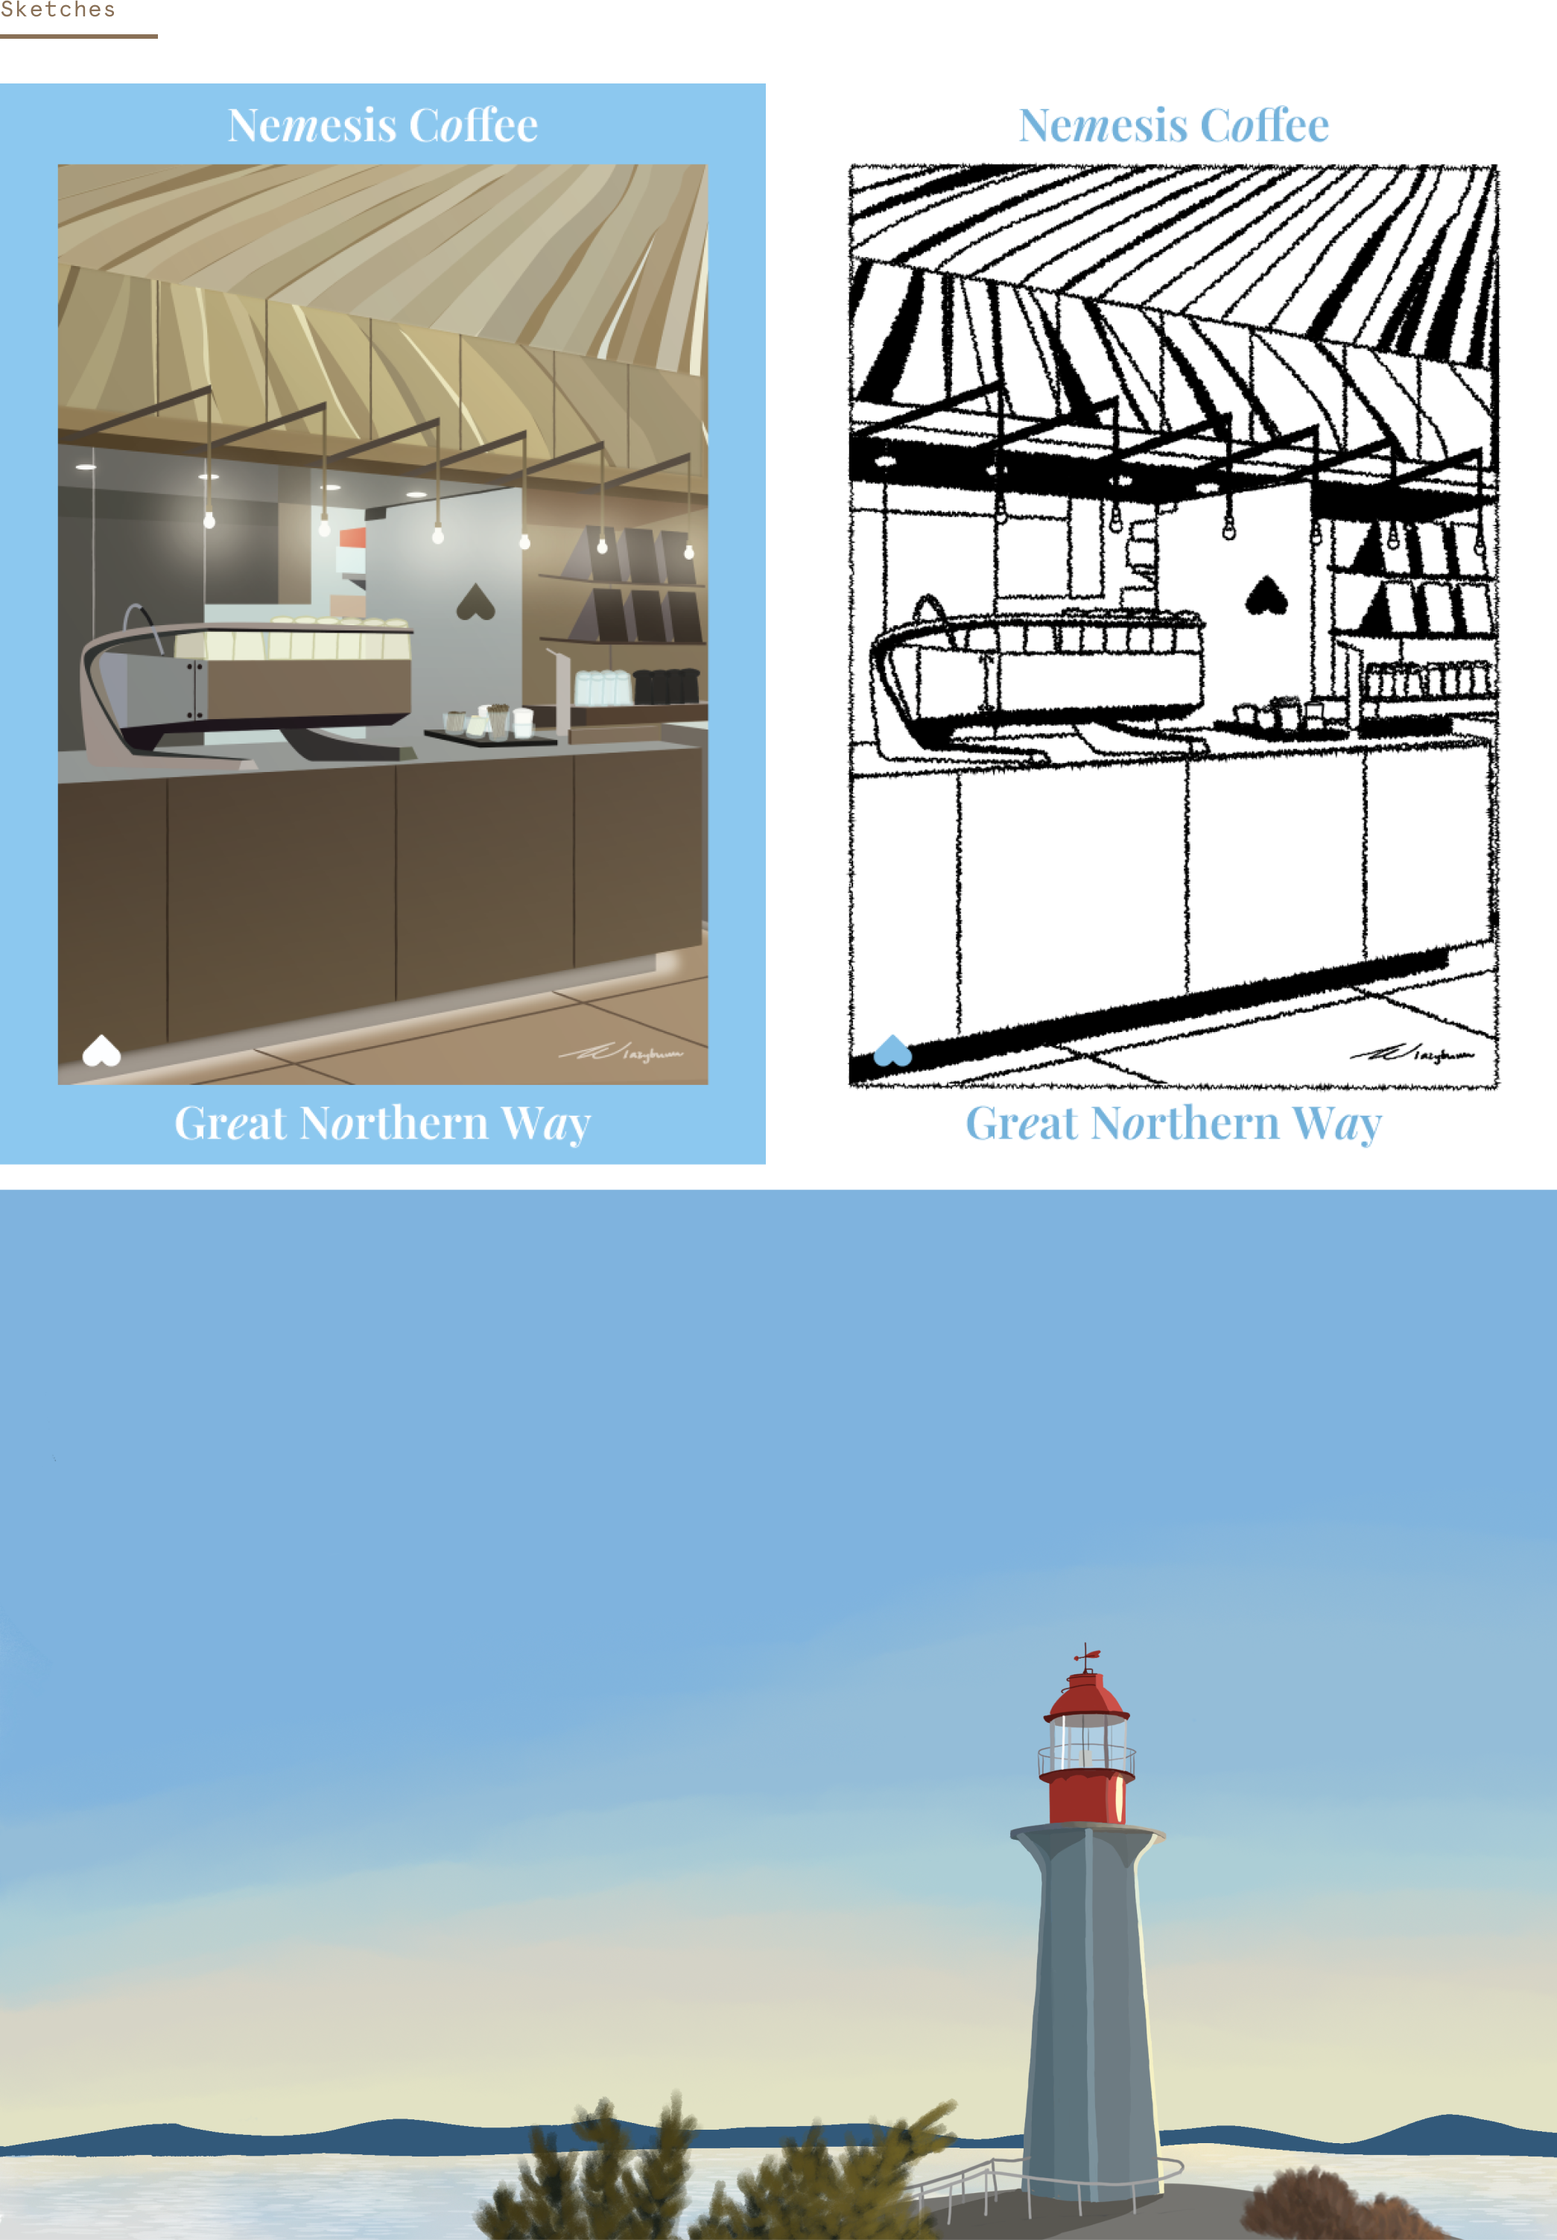
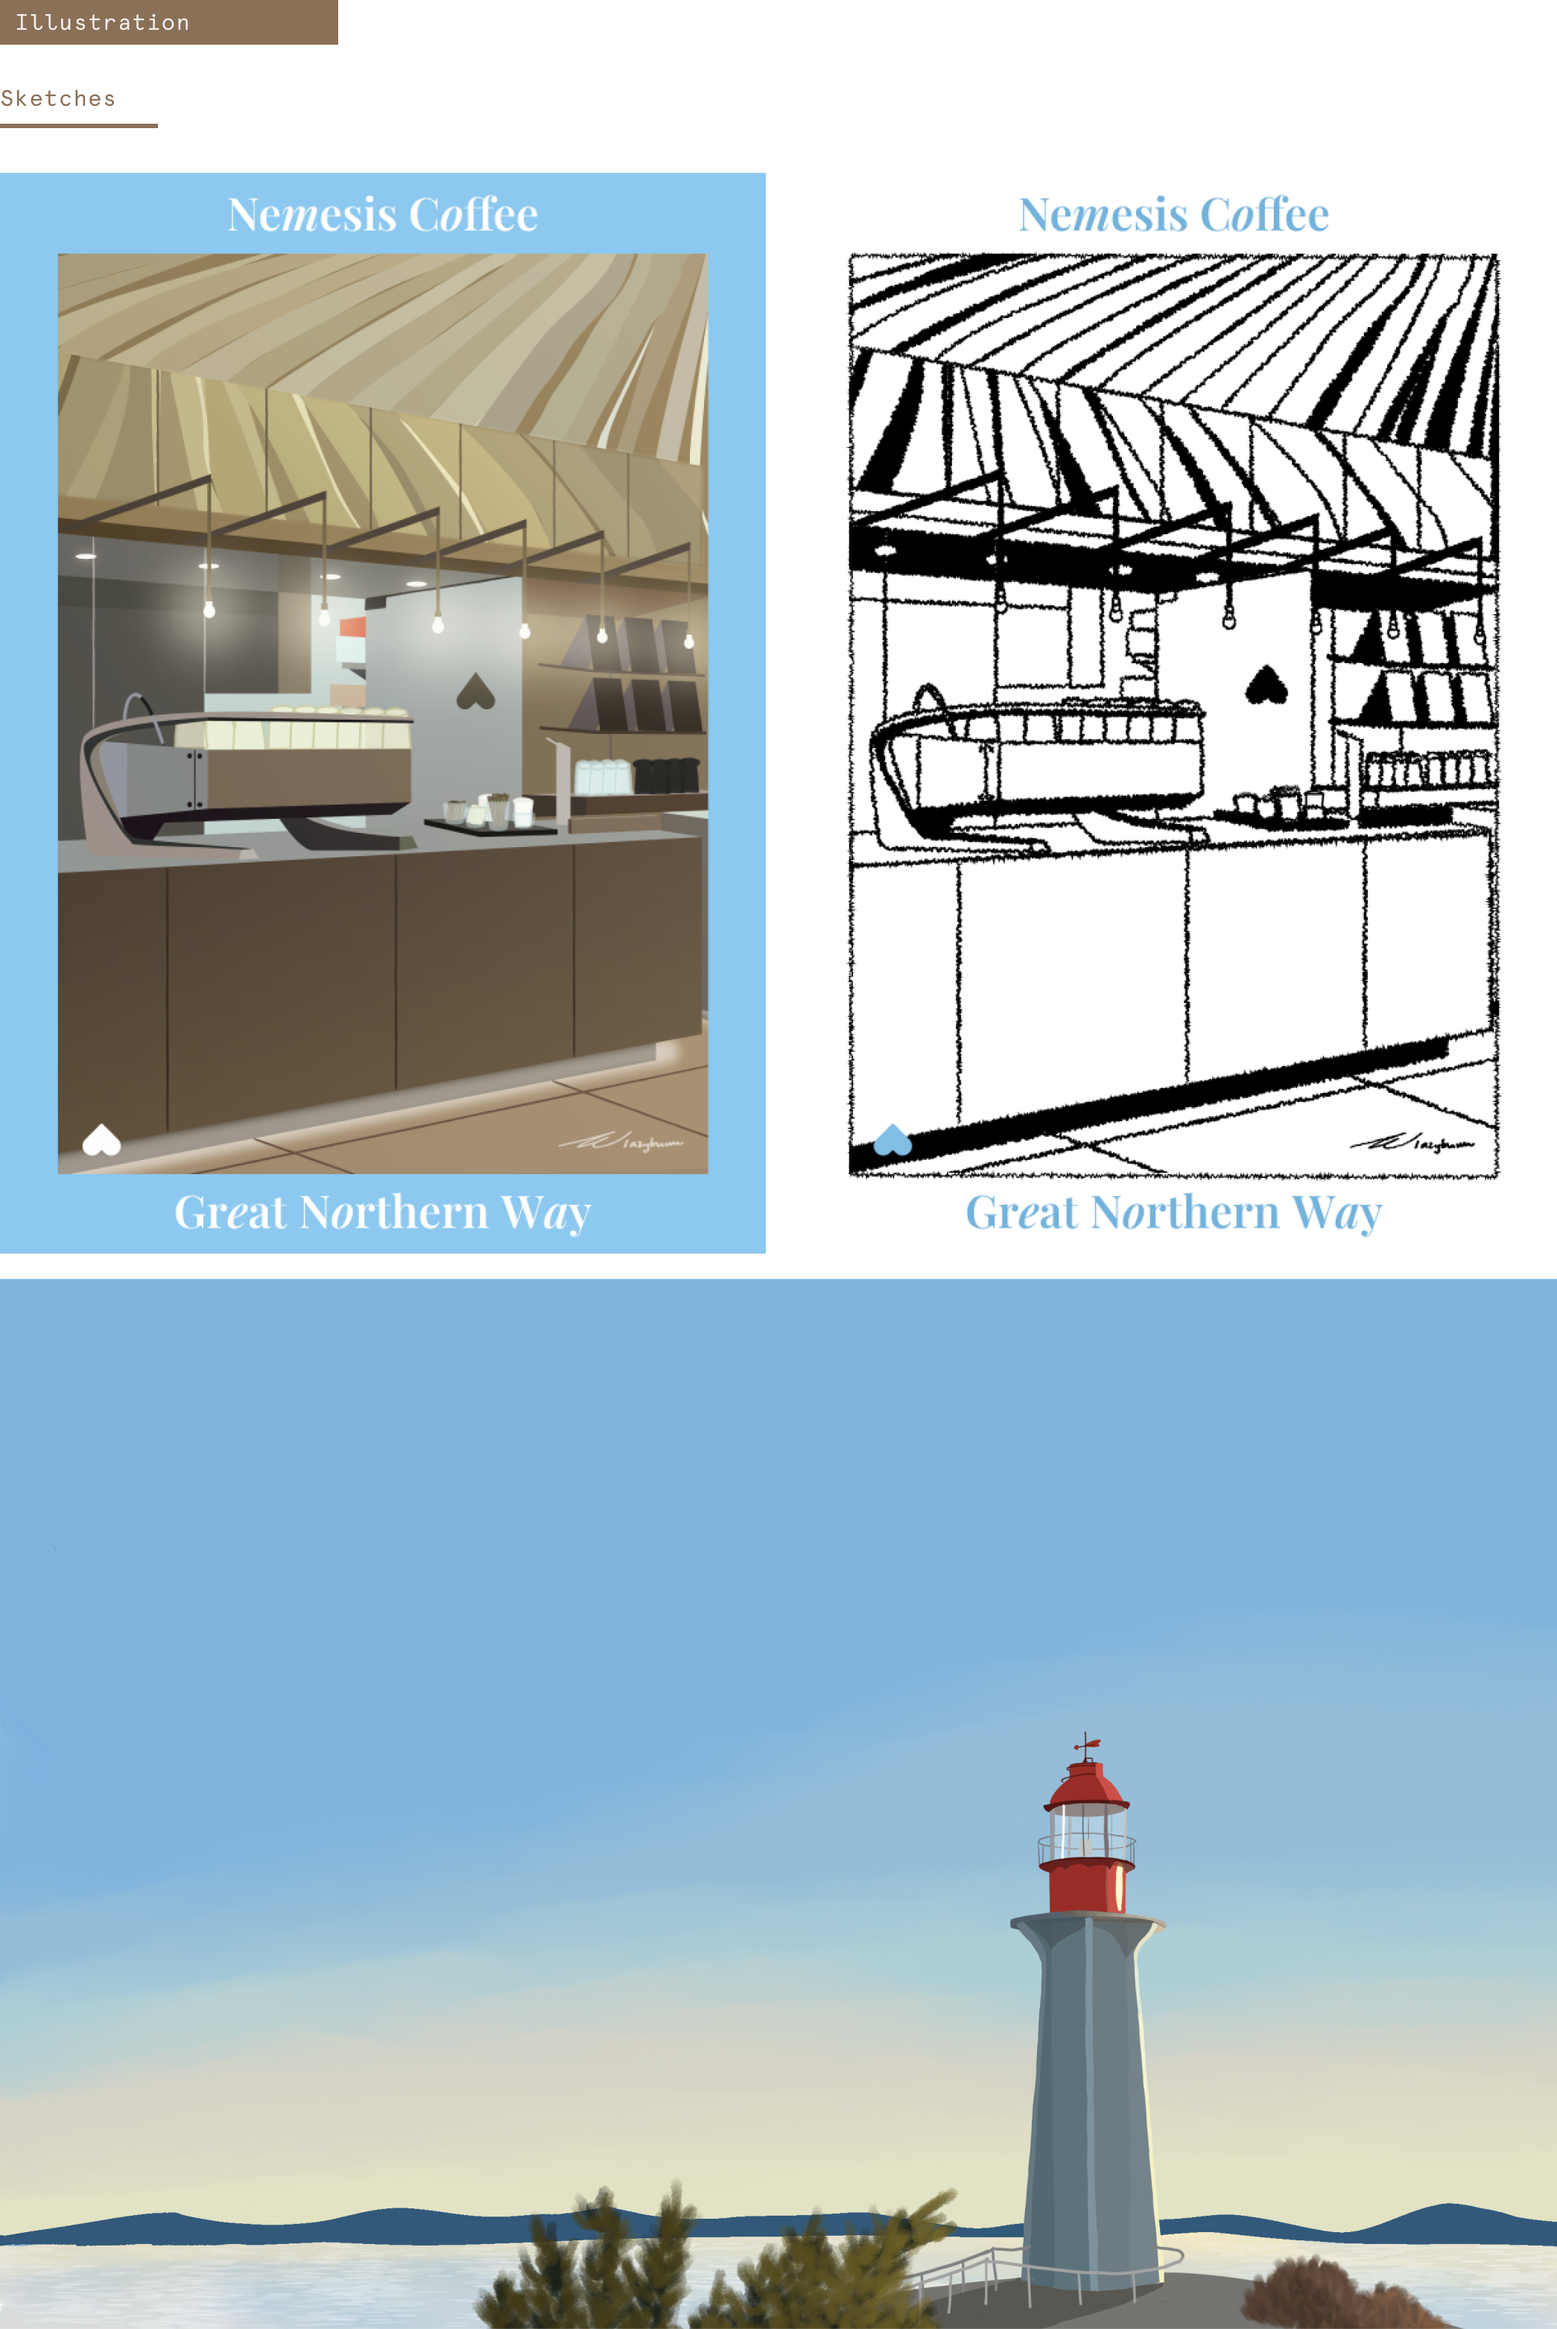
update art page

diff --git a/art.html b/art.html
@@ -47,21 +47,21 @@
     <br>
     <div class="body">
       <div class="project-web">
-        <img src="img/art/art-title.png" alt="art-title"> 
-        <img src="img/art/art-illustration-title.png" alt="art-illustration-title">   
+        <img src="img/art/art-title.png" alt="art-title"> <br>
+        <!-- <img src="img/art/art-illustration-title.png" alt="art-illustration-title">    -->
         <img src="img/art/art-illustration-sketches.png" alt="art-illustration-sketches">   
         <img src="img/art/art-illustration-portraits.png" alt="art-illustration-portraits">   
         <img src="img/art/art-illustration-anime.png" alt="art-illustration-anime">   
-        <img src="img/art/art-poster-title.png" alt="art-poster-title">   
+        <!-- <img src="img/art/art-poster-title.png" alt="art-poster-title">    -->
         <img src="img/art/art-poster.png" alt="art-poster">   
       </div>
       <div class="project-mobile">
-        <img src="img/art/art-title-mobile.png" alt="art-title-mobile">    
-        <img src="img/art/art-illustration-title-mobile.png" alt="art-illustration-title-mobile">   
+        <img src="img/art/art-title-mobile.png" alt="art-title-mobile">  <br>  
+        <!-- <img src="img/art/art-illustration-title-mobile.png" alt="art-illustration-title-mobile">    -->
         <img src="img/art/art-illustration-sketches-mobile.png" alt="art-illustration-sketches-mobile">   
         <img src="img/art/art-illustration-portraits-mobile.png" alt="art-illustration-portraits-mobile">   
         <img src="img/art/art-illustration-anime-mobile.png" alt="art-illustration-anime-mobile">   
-        <img src="img/art/art-poster-title-mobile.png" alt="art-poster-title-mobile">   
+        <!-- <img src="img/art/art-poster-title-mobile.png" alt="art-poster-title-mobile">    -->
         <img src="img/art/art-poster-mobile.png" alt="art-poster-mobile">      
       </div>
 
